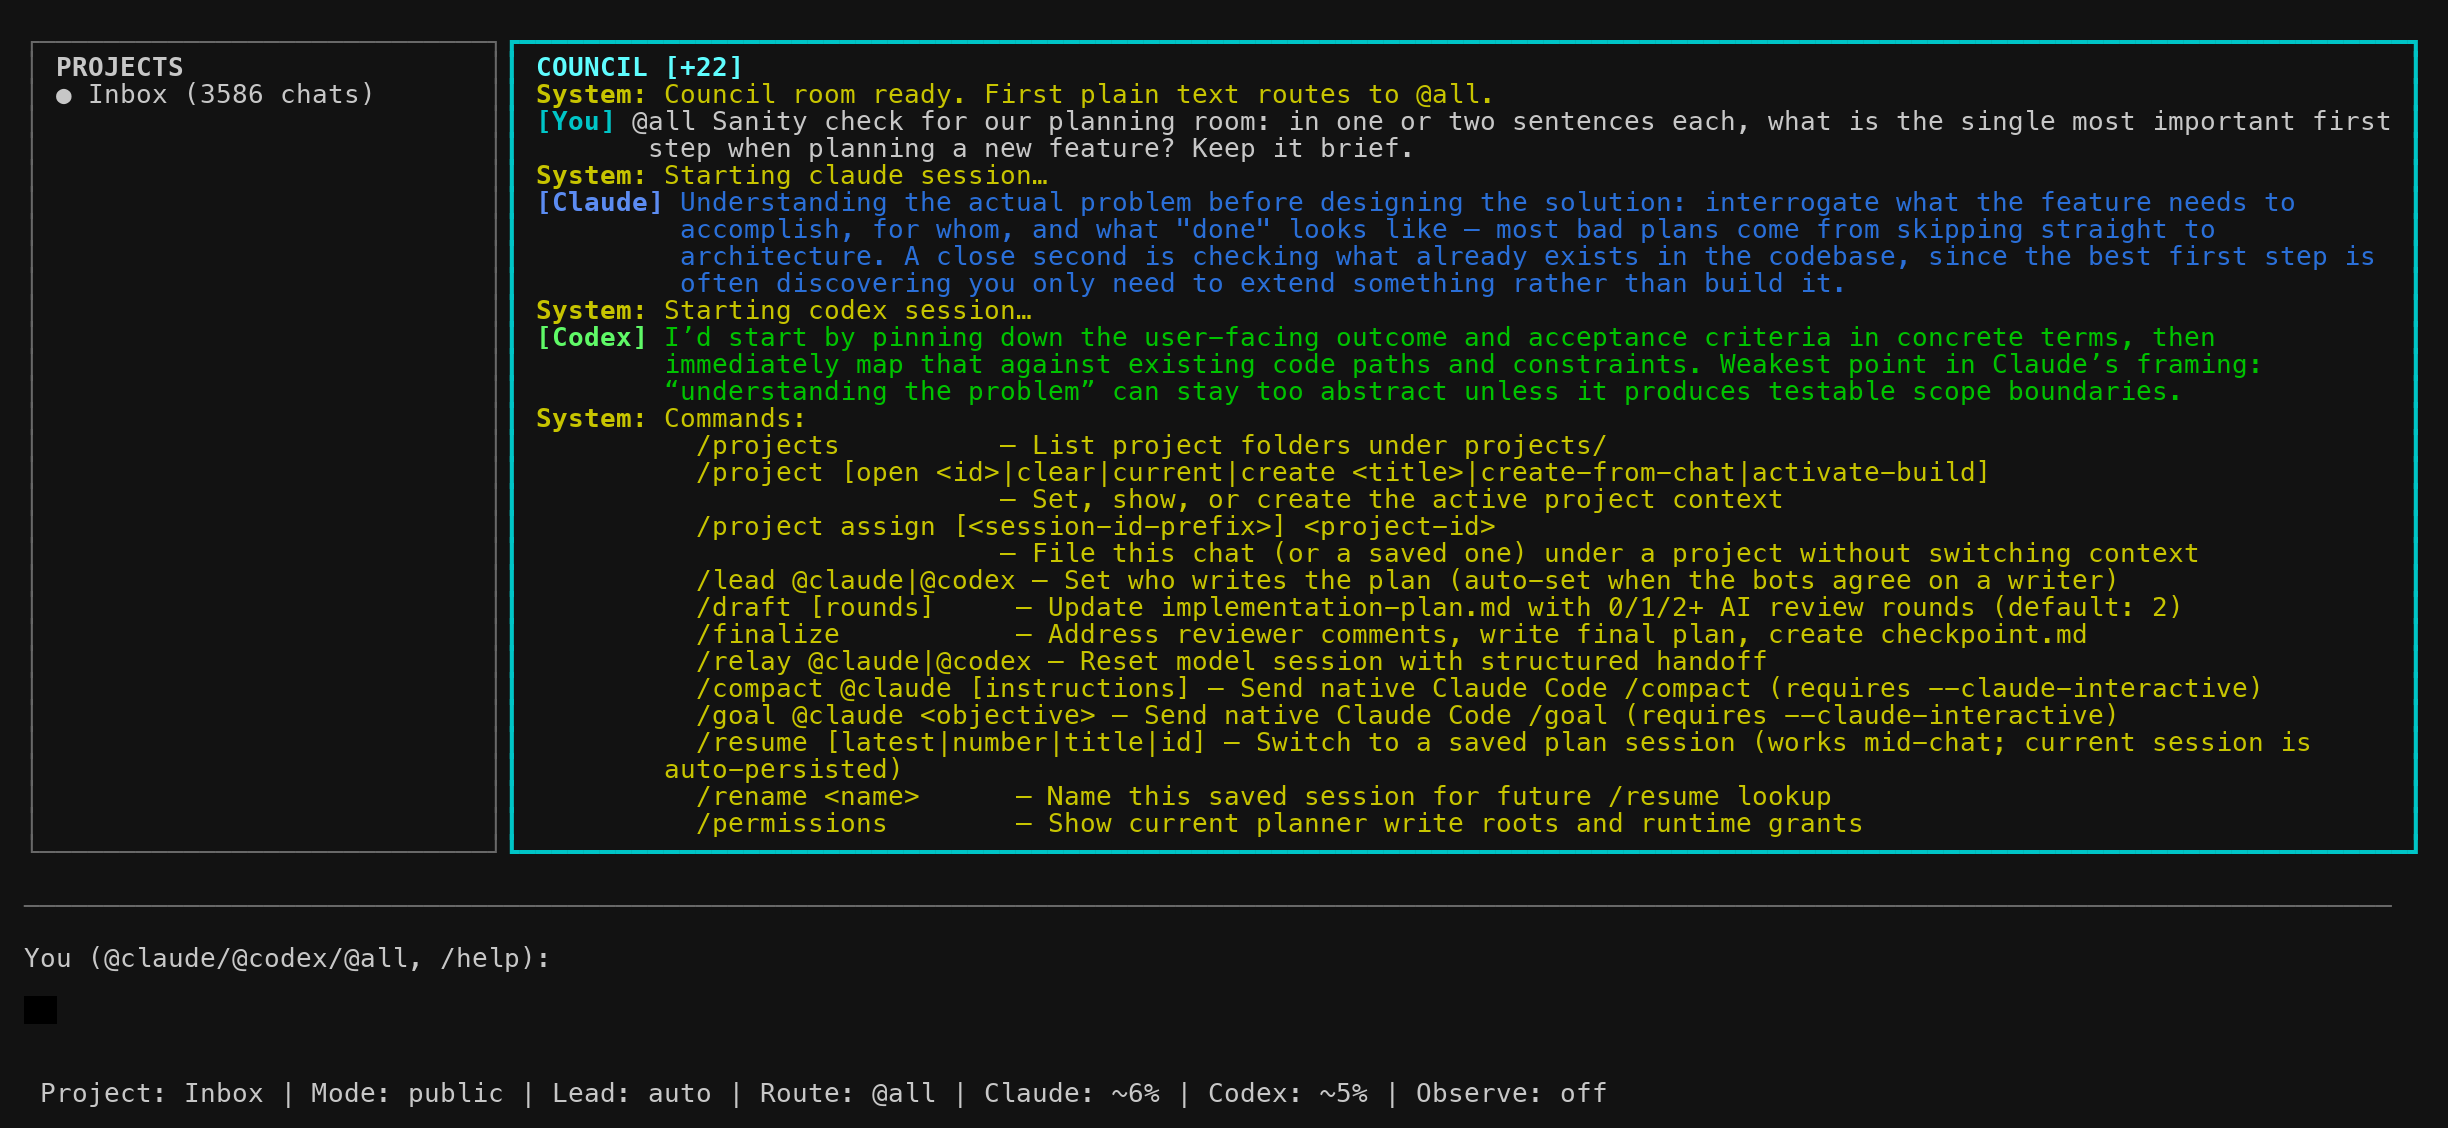
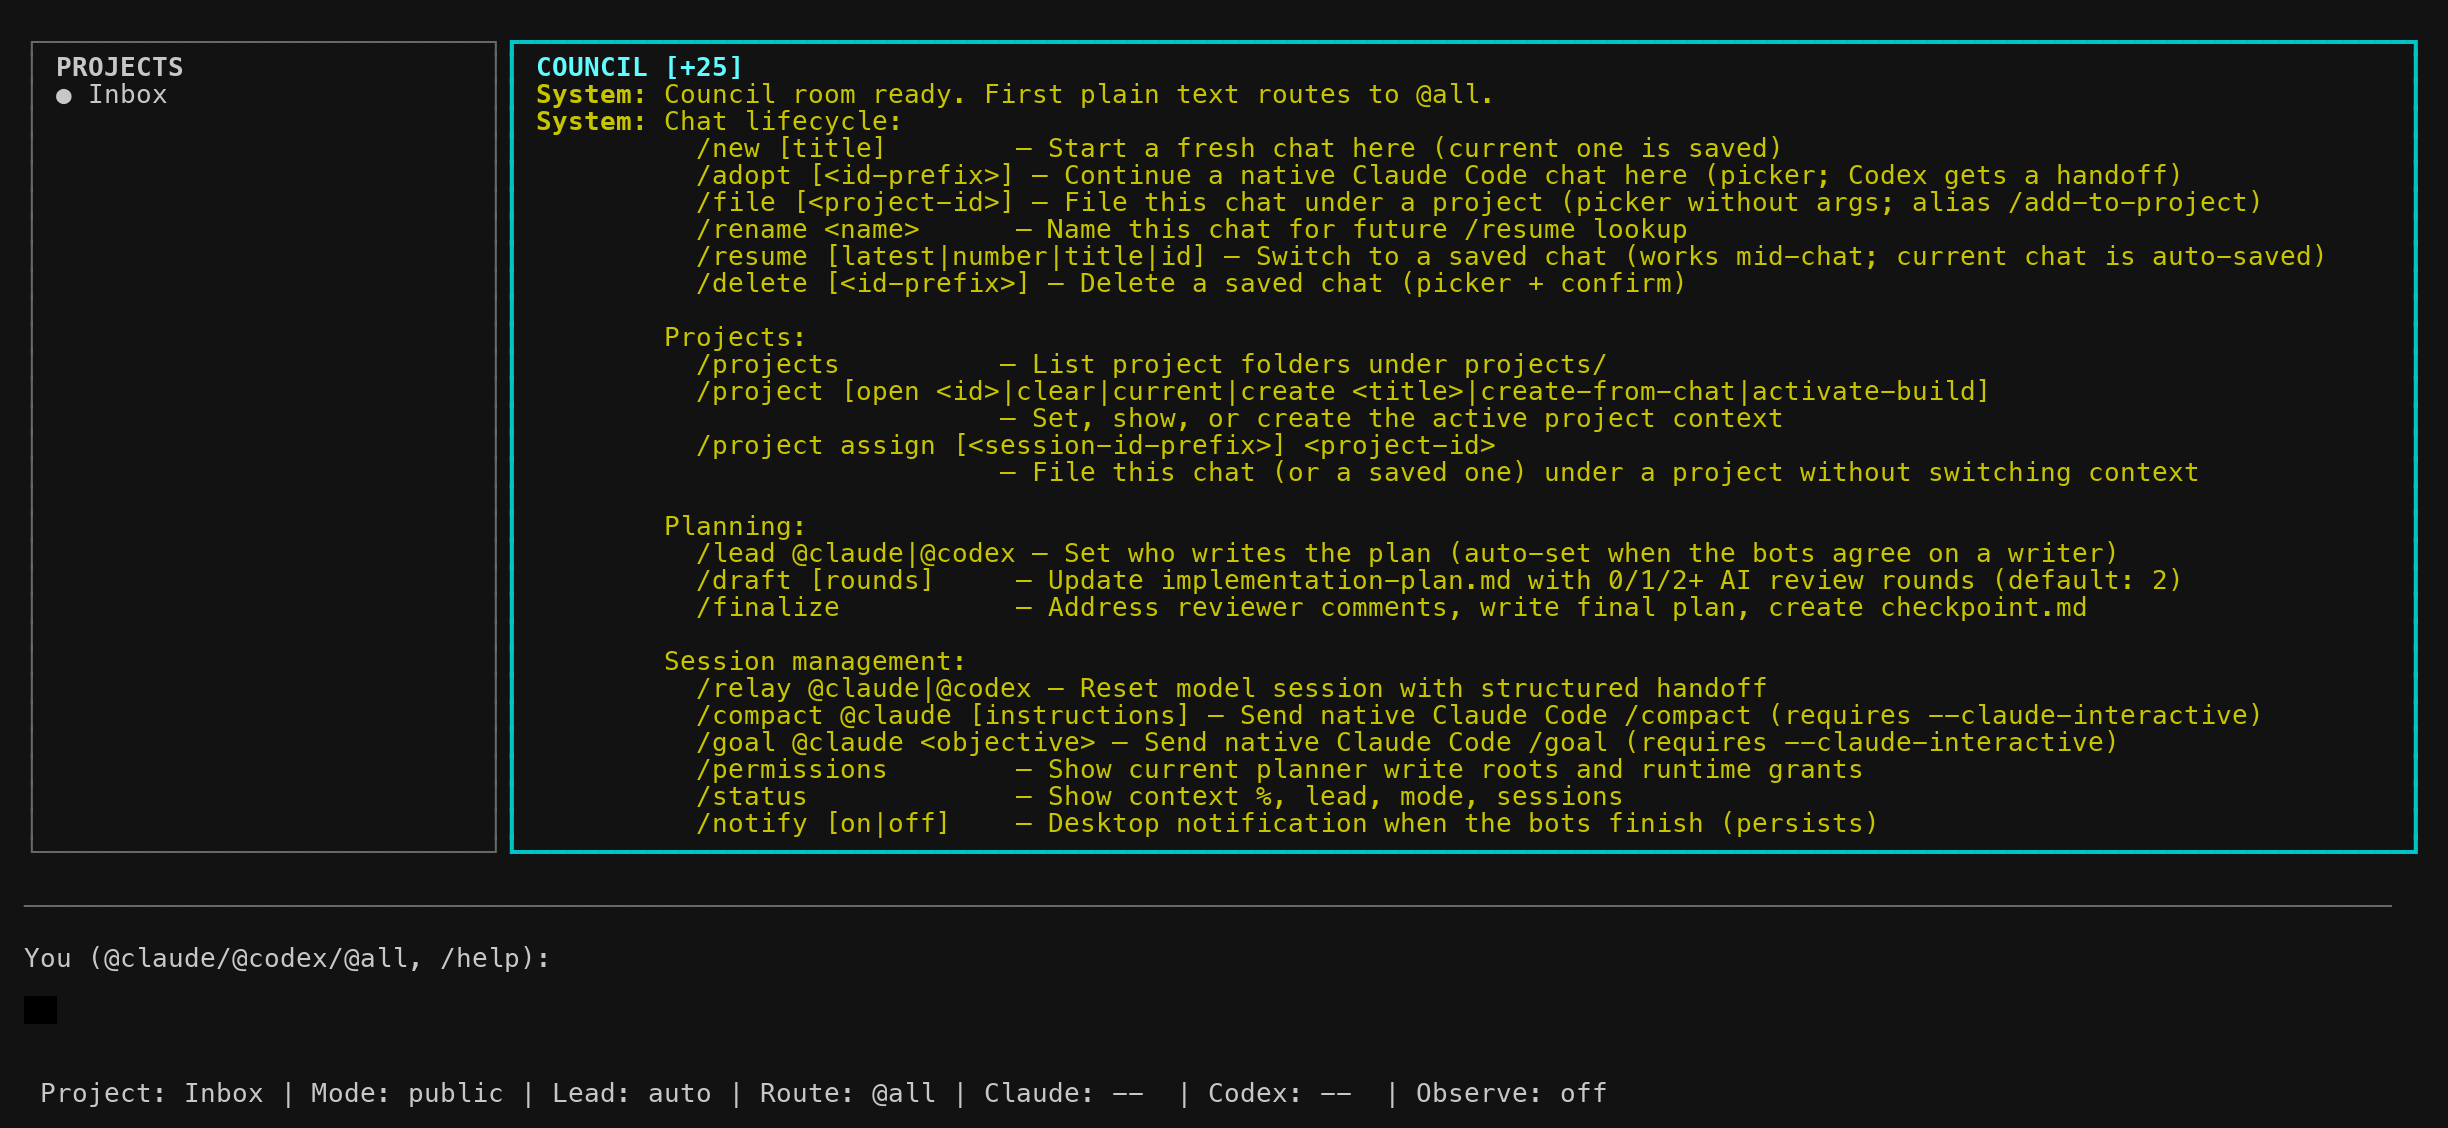
docs: man page, steering-aware README, fresh /help screenshot; test-store isolation
docs/man/botference.1 covers launcher modes/options, in-session command
highlights, files, and environment (render with man docs/man/botference.1;
CLAUDE.md now lists the doc surfaces to keep in sync). README's free-form
preemption bullet updated for steering. /help screenshot re-captured with
/notify and the current command set. tests/conftest.py redirects default
path resolution into tmp dirs — a full pytest run had been littering
hundreds of session corpses into the repo's own work/sessions store
(661 wiped).

Claude-Session: https://claude.ai/code/session_018AgzW1h6xfAejn8vgT8Rtm

diff --git a/tests/conftest.py b/tests/conftest.py
@@ -1,0 +1,25 @@
+"""Shared test scaffolding.
+
+Redirects default path resolution into each test's tmp dir so tests that
+construct Botference / SessionStore without explicit paths can never
+persist sessions into the repository's own work/ store. (Before this
+guard, a full pytest run littered hundreds of session files there.)
+
+test_paths.py deletes these env vars in its own fixtures where it needs
+to exercise the no-env fallback behavior.
+"""
+
+from __future__ import annotations
+
+import pytest
+
+
[email redacted](autouse=True)
+def _isolate_botference_state(tmp_path, monkeypatch):
+    work = tmp_path / "bf-default-work"
+    (work / "sessions").mkdir(parents=True, exist_ok=True)
+    monkeypatch.setenv("BOTFERENCE_WORK_DIR", str(work))
+    # Keep tests hermetic from the developer's real user settings too.
+    monkeypatch.setenv(
+        "BOTFERENCE_SETTINGS_FILE", str(tmp_path / "bf-user-settings.json")
+    )

diff --git a/CHANGELOG.md b/CHANGELOG.md
@@ -19,6 +19,13 @@
   default; `/notify off` disables it, persisted per-user in
   `~/.botference/settings.json`. Esc-interrupting a turn suppresses the
   ping.
+- **Man page + doc sync.** New `docs/man/botference.1` (launcher modes,
+  options, in-session command highlights, files, environment); README's
+  stale "typing pauses the thread" bullet updated for steering; `/help`
+  screenshot re-captured. Also fixed: a full pytest run used to litter
+  hundreds of session files into the repo's own `work/sessions` store —
+  a conftest guard now redirects default path resolution into each
+  test's tmp dir.
 - **Built-in `review-doc` skill.** Both bots now discover a skill for
   rendering review documents (implementation plans, proposals) as
   self-contained HTML with Google-Docs-style margin commenting and

diff --git a/README.md b/README.md
@@ -95,6 +95,7 @@ it from the repo root with the local launcher:
 ./botference plan --claude-interactive     # Experimental: mirror interactive Claude through tmux
 ./botference research-plan                 # Structured planning in Ink (experimental)
 ./botference --help
+man docs/man/botference.1                  # Man page (launcher + in-session commands)
 ```
 
 Do **not** run `botference init` in the Botference source repo. This checkout
@@ -352,8 +353,10 @@ Mechanics:
   (+3 turns / +4K tokens), then forces the floor back to you with the last
   footer summary. The thread pauses rather than dies — reply (even just
   "continue") and they pick up with a fresh budget.
-- **You always preempt.** If you type while the bots are talking, the thread
-  pauses at the next turn boundary and the floor is yours.
+- **You always preempt.** Typing while Claude is speaking steers its current
+  turn in place (see [Steering](#steering--typing-while-the-bots-work));
+  anything else you type pauses the thread at the next turn boundary and
+  the floor is yours.
 - **Conciseness is enforced by measurement.** If a bot's turn exceeds ~400
   output tokens, its next prompt carries a cap nudge.
 - **Writer consensus sets the lead.** The footer has an optional

diff --git a/CLAUDE.md b/CLAUDE.md
@@ -2,4 +2,5 @@
 
 - **TUI app**: `core/` (Python controller + CLI adapters + bridge) and `ink-ui/` (Ink/React terminal UI; build with `npm run build` in `ink-ui/`). Launcher: `./botference` + `lib/*.sh`. Tests: `pytest tests/` and `npm test` in `ink-ui/`.
 - **Website** (botference.com): `site/` — static HTML, auto-deploys to GitHub Pages on push.
+- **Docs to keep in sync** when commands/flags change: README.md, `/help` in `core/botference.py`, `docs/man/botference.1`, CHANGELOG.md.
 - **No desktop app exists.** Possibly worth building one (the controller is headless; only the Ink frontend would need replacing).